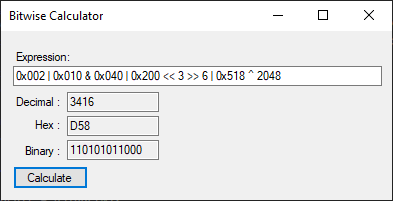
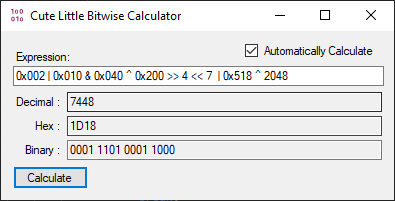
Implement binary to show bits by blocks of 4.
+ Add auto calculate checkbox.
+ Support more operators. useful when calculating memory ranges.

diff --git a/src/BitwiseCalculator/MainWindow.cs b/src/BitwiseCalculator/MainWindow.cs
@@ -1,6 +1,8 @@
 using System;
 using System.Collections.Generic;
+using System.Globalization;
 using System.Linq;
+using System.Linq.Expressions;
 using System.Text.RegularExpressions;
 using System.Windows.Forms;
 
@@ -8,70 +10,101 @@ namespace BitwiseCalculator
 {
     public partial class MainWindow : Form
     {
+        private readonly string REGEX_EXPR = "\\||\\&|\\^|>>|<<|%|\\+|-|/|\\*";
+
         public MainWindow()
         {
             InitializeComponent();
+            tbxExpression.TextChanged += delegate
+            {
+                if (cbxAutoCalc.Checked)
+                    Calculate();
+            };
+            btnCalc.Click += delegate { Calculate(); };
         }
 
-        private void BtnCalc_Click(object sender, EventArgs e)
+        private void MainWindow_KeyPress(object sender, KeyPressEventArgs e)
         {
-            if (tbxExpression.Text == "") return;
+            if ((Keys)e.KeyChar == Keys.Return)
+                Calculate();
+        }
+
+        private void Calculate()
+        {
+            if (tbxExpression.Text == String.Empty)
+            {
+                tbxDec.Text = tbxHex.Text = tbxBin.Text = "";
+                return;
+            }
 
             // 0x002 | 0x010 & 0x040 | 0x200 << 3 >> 6 | 0x518 ^ 2048
             string expression = tbxExpression.Text;
-            MatchCollection operators = Regex.Matches(expression, "\\||\\&|\\^|>>|<<");
-            List<string> valuesStr  = Regex.Split(expression, "\\||\\&|\\^|>>|<<").Select(value => value.Trim()).ToList();
 
-            List<int> values = new List<int>(operators.Count + 1);
-            foreach (string valueStr in valuesStr)
+            List<string> operatorsMatches = Regex.Matches(expression, REGEX_EXPR).Cast<Match>()
+                .Select(m => m.Value.Trim()).ToList();
+
+            List<string> valuesMatches = Regex.Split(expression, REGEX_EXPR)
+                .Select(v => v.Trim()).ToList();
+
+            List<int> values = new List<int>(valuesMatches.Count);
+
+            bool bValidInput = true;
+            foreach (string valueMatch in valuesMatches)
             {
-                int valueBase = valueStr.StartsWith("0x") ? 16 : 10;
-                values.Add(Convert.ToInt32(valueStr, valueBase));
+                int valueBase = valueMatch.StartsWith("0x") ? 16 : 10;
+                try {
+                    values.Add(Convert.ToInt32(valueMatch, valueBase));
+                }
+                catch {
+                    bValidInput = false;
+                    break;
+                }
             }
-            if (values.Count == 0 || operators.Count == 0) return;
+
+            if (!bValidInput || (operatorsMatches.Count != valuesMatches.Count - 1) || values.Count < 1)
+            {
+                tbxDec.Text = tbxHex.Text = tbxBin.Text = "Invalid input.";
+                return;
+            }
 
             int result = values[0];
-            for (int i = 0; i < operators.Count; i++)
+            for (int i = 0; i < operatorsMatches.Count; i++)
             {
-                switch (operators[i].Value)
+                int value = values[i + 1];
+                switch (operatorsMatches[i])
                 {
-                    case "|":
-                        result |= values[i + 1];
-                        break;
-                    case "&":
-                        result &= values[i + 1];
-                        break;
-                    case "^":
-                        result ^= values[i + 1];
-                        break;
-                    case ">>":
-                        result >>= values[i + 1];
-                        break;
-                    case "<<":
-                        result <<= values[i + 1];
-                        break;
+                    case "|" : result |=  value; break;
+                    case "&" : result &=  value; break;
+                    case "^" : result ^=  value; break;
+                    case ">>": result >>= value; break;
+                    case "<<": result <<= value; break;
+                    case "%" : result %=  value; break;
+                    case "+" : result +=  value; break;
+                    case "-" : result -=  value; break;
+                    case "/" : result /=  value; break;
+                    case "*" : result *=  value; break;
                     default:
-                        tbxExpression.Text = $"Invalid Operator: {operators[i].Value}";
+                        tbxDec.Text = tbxHex.Text = tbxBin.Text = $"Invalid Operator: {operatorsMatches[i]}";
                         return;
                 }
             }
 
             tbxDec.Text = result.ToString();
             tbxHex.Text = result.ToString("X");
-            tbxBin.Text = Convert.ToString(result, 2);
+            tbxBin.Text = result.ToBinary(' ', 4);
         }
 
-        private void MainWindow_KeyPress(object sender, KeyPressEventArgs e)
-        {
-            Keys key = (Keys)e.KeyChar;
-            switch (key)
-            {
-                case Keys.Return:
-                    btnCalc.PerformClick();
-                    break;
-                default:
-                    break;
-            }
-        }
+    }
+}
+
+public static class Utility
+{
+    public static string ToBinary(this int src, char delimiter, int block)
+    {
+        int bits = 0;
+        string str = Convert.ToString(src, 2);
+        for (int i = str.Length - 1; i >= 0; bits += block, i -= block);
+
+        return String.Join(delimiter.ToString(), Regex.Split(str.PadLeft(bits, '0'), $"(?<=\\G.{{{block}}})")).TrimEnd(delimiter);
     }
 }

diff --git a/src/BitwiseCalculator/MainWindow.Designer.cs b/src/BitwiseCalculator/MainWindow.Designer.cs
@@ -37,6 +37,7 @@
             this.label3 = new System.Windows.Forms.Label();
             this.tbxBin = new System.Windows.Forms.TextBox();
             this.label4 = new System.Windows.Forms.Label();
+            this.cbxAutoCalc = new System.Windows.Forms.CheckBox();
             this.SuspendLayout();
             // 
             // tbxExpression
@@ -45,7 +46,7 @@
             | System.Windows.Forms.AnchorStyles.Right)));
             this.tbxExpression.Location = new System.Drawing.Point(12, 35);
             this.tbxExpression.Name = "tbxExpression";
-            this.tbxExpression.Size = new System.Drawing.Size(369, 20);
+            this.tbxExpression.Size = new System.Drawing.Size(371, 20);
             this.tbxExpression.TabIndex = 0;
             // 
             // btnCalc
@@ -56,7 +57,6 @@
             this.btnCalc.TabIndex = 1;
             this.btnCalc.Text = "Calculate";
             this.btnCalc.UseVisualStyleBackColor = true;
-            this.btnCalc.Click += new System.EventHandler(this.BtnCalc_Click);
             // 
             // label1
             // 
@@ -76,7 +76,7 @@
             this.tbxDec.Location = new System.Drawing.Point(66, 61);
             this.tbxDec.Name = "tbxDec";
             this.tbxDec.ReadOnly = true;
-            this.tbxDec.Size = new System.Drawing.Size(92, 20);
+            this.tbxDec.Size = new System.Drawing.Size(315, 20);
             this.tbxDec.TabIndex = 3;
             // 
             // label2
@@ -95,13 +95,13 @@
             this.tbxHex.Location = new System.Drawing.Point(66, 85);
             this.tbxHex.Name = "tbxHex";
             this.tbxHex.ReadOnly = true;
-            this.tbxHex.Size = new System.Drawing.Size(92, 20);
+            this.tbxHex.Size = new System.Drawing.Size(315, 20);
             this.tbxHex.TabIndex = 3;
             // 
             // label3
             // 
             this.label3.AutoSize = true;
-            this.label3.Location = new System.Drawing.Point(31, 87);
+            this.label3.Location = new System.Drawing.Point(31, 88);
             this.label3.Name = "label3";
             this.label3.Size = new System.Drawing.Size(32, 13);
             this.label3.TabIndex = 4;
@@ -114,23 +114,36 @@
             this.tbxBin.Location = new System.Drawing.Point(66, 109);
             this.tbxBin.Name = "tbxBin";
             this.tbxBin.ReadOnly = true;
-            this.tbxBin.Size = new System.Drawing.Size(92, 20);
+            this.tbxBin.Size = new System.Drawing.Size(315, 20);
             this.tbxBin.TabIndex = 3;
             // 
             // label4
             // 
             this.label4.AutoSize = true;
-            this.label4.Location = new System.Drawing.Point(21, 113);
+            this.label4.Location = new System.Drawing.Point(21, 112);
             this.label4.Name = "label4";
             this.label4.Size = new System.Drawing.Size(42, 13);
             this.label4.TabIndex = 4;
             this.label4.Text = "Binary :";
             // 
+            // cbxAutoCalc
+            // 
+            this.cbxAutoCalc.AutoSize = true;
+            this.cbxAutoCalc.Checked = true;
+            this.cbxAutoCalc.CheckState = System.Windows.Forms.CheckState.Checked;
+            this.cbxAutoCalc.Location = new System.Drawing.Point(244, 12);
+            this.cbxAutoCalc.Name = "cbxAutoCalc";
+            this.cbxAutoCalc.Size = new System.Drawing.Size(135, 17);
+            this.cbxAutoCalc.TabIndex = 5;
+            this.cbxAutoCalc.Text = "Automatically Calculate";
+            this.cbxAutoCalc.UseVisualStyleBackColor = true;
+            // 
             // MainWindow
             // 
             this.AutoScaleDimensions = new System.Drawing.SizeF(6F, 13F);
             this.AutoScaleMode = System.Windows.Forms.AutoScaleMode.Font;
-            this.ClientSize = new System.Drawing.Size(391, 169);
+            this.ClientSize = new System.Drawing.Size(393, 169);
+            this.Controls.Add(this.cbxAutoCalc);
             this.Controls.Add(this.label4);
             this.Controls.Add(this.tbxBin);
             this.Controls.Add(this.label3);
@@ -140,12 +153,12 @@
             this.Controls.Add(this.label1);
             this.Controls.Add(this.btnCalc);
             this.Controls.Add(this.tbxExpression);
+            this.Icon = global::BitwiseCalculator.Properties.Resources.app;
             this.KeyPreview = true;
             this.MaximumSize = new System.Drawing.Size(800, 208);
             this.MinimumSize = new System.Drawing.Size(350, 208);
             this.Name = "MainWindow";
-            this.ShowIcon = false;
-            this.Text = "Bitwise Calculator";
+            this.Text = "Cute Little Bitwise Calculator";
             this.KeyPress += new System.Windows.Forms.KeyPressEventHandler(this.MainWindow_KeyPress);
             this.ResumeLayout(false);
             this.PerformLayout();
@@ -163,6 +176,7 @@
         private System.Windows.Forms.Label label3;
         private System.Windows.Forms.TextBox tbxBin;
         private System.Windows.Forms.Label label4;
+        private System.Windows.Forms.CheckBox cbxAutoCalc;
     }
 }
 

diff --git a/src/BitwiseCalculator/Properties/Resources.Designer.cs b/src/BitwiseCalculator/Properties/Resources.Designer.cs
@@ -8,10 +8,10 @@
 // </auto-generated>
 //------------------------------------------------------------------------------
 
-namespace BitwiseCalculator.Properties
-{
-
-
+namespace BitwiseCalculator.Properties {
+    using System;
+    
+    
     /// <summary>
     ///   A strongly-typed resource class, for looking up localized strings, etc.
     /// </summary>
@@ -19,52 +19,54 @@ namespace BitwiseCalculator.Properties
     // class via a tool like ResGen or Visual Studio.
     // To add or remove a member, edit your .ResX file then rerun ResGen
     // with the /str option, or rebuild your VS project.
-    [global::System.CodeDom.Compiler.GeneratedCodeAttribute("System.Resources.Tools.StronglyTypedResourceBuilder", "4.0.0.0")]
+    [global::System.CodeDom.Compiler.GeneratedCodeAttribute("System.Resources.Tools.StronglyTypedResourceBuilder", "15.0.0.0")]
     [global::System.Diagnostics.DebuggerNonUserCodeAttribute()]
     [global::System.Runtime.CompilerServices.CompilerGeneratedAttribute()]
-    internal class Resources
-    {
-
+    internal class Resources {
+        
         private static global::System.Resources.ResourceManager resourceMan;
-
+        
         private static global::System.Globalization.CultureInfo resourceCulture;
-
+        
         [global::System.Diagnostics.CodeAnalysis.SuppressMessageAttribute("Microsoft.Performance", "CA1811:AvoidUncalledPrivateCode")]
-        internal Resources()
-        {
+        internal Resources() {
         }
-
+        
         /// <summary>
         ///   Returns the cached ResourceManager instance used by this class.
         /// </summary>
         [global::System.ComponentModel.EditorBrowsableAttribute(global::System.ComponentModel.EditorBrowsableState.Advanced)]
-        internal static global::System.Resources.ResourceManager ResourceManager
-        {
-            get
-            {
-                if ((resourceMan == null))
-                {
+        internal static global::System.Resources.ResourceManager ResourceManager {
+            get {
+                if (object.ReferenceEquals(resourceMan, null)) {
                     global::System.Resources.ResourceManager temp = new global::System.Resources.ResourceManager("BitwiseCalculator.Properties.Resources", typeof(Resources).Assembly);
                     resourceMan = temp;
                 }
                 return resourceMan;
             }
         }
-
+        
         /// <summary>
         ///   Overrides the current thread's CurrentUICulture property for all
         ///   resource lookups using this strongly typed resource class.
         /// </summary>
         [global::System.ComponentModel.EditorBrowsableAttribute(global::System.ComponentModel.EditorBrowsableState.Advanced)]
-        internal static global::System.Globalization.CultureInfo Culture
-        {
-            get
-            {
+        internal static global::System.Globalization.CultureInfo Culture {
+            get {
                 return resourceCulture;
             }
-            set
-            {
+            set {
                 resourceCulture = value;
+            }
+        }
+        
+        /// <summary>
+        ///   Looks up a localized resource of type System.Drawing.Icon similar to (Icon).
+        /// </summary>
+        internal static System.Drawing.Icon app {
+            get {
+                object obj = ResourceManager.GetObject("app", resourceCulture);
+                return ((System.Drawing.Icon)(obj));
             }
         }
     }

diff --git a/src/BitwiseCalculator/Properties/AssemblyInfo.cs b/src/BitwiseCalculator/Properties/AssemblyInfo.cs
@@ -32,5 +32,5 @@ using System.Runtime.InteropServices;
 // You can specify all the values or you can default the Build and Revision Numbers
 // by using the '*' as shown below:
 // [assembly: AssemblyVersion("1.0.*")]
-[assembly: AssemblyVersion("1.0.0.0")]
-[assembly: AssemblyFileVersion("1.0.0.0")]
+[assembly: AssemblyVersion("1.0.1.0")]
+[assembly: AssemblyFileVersion("1.0.1.0")]
